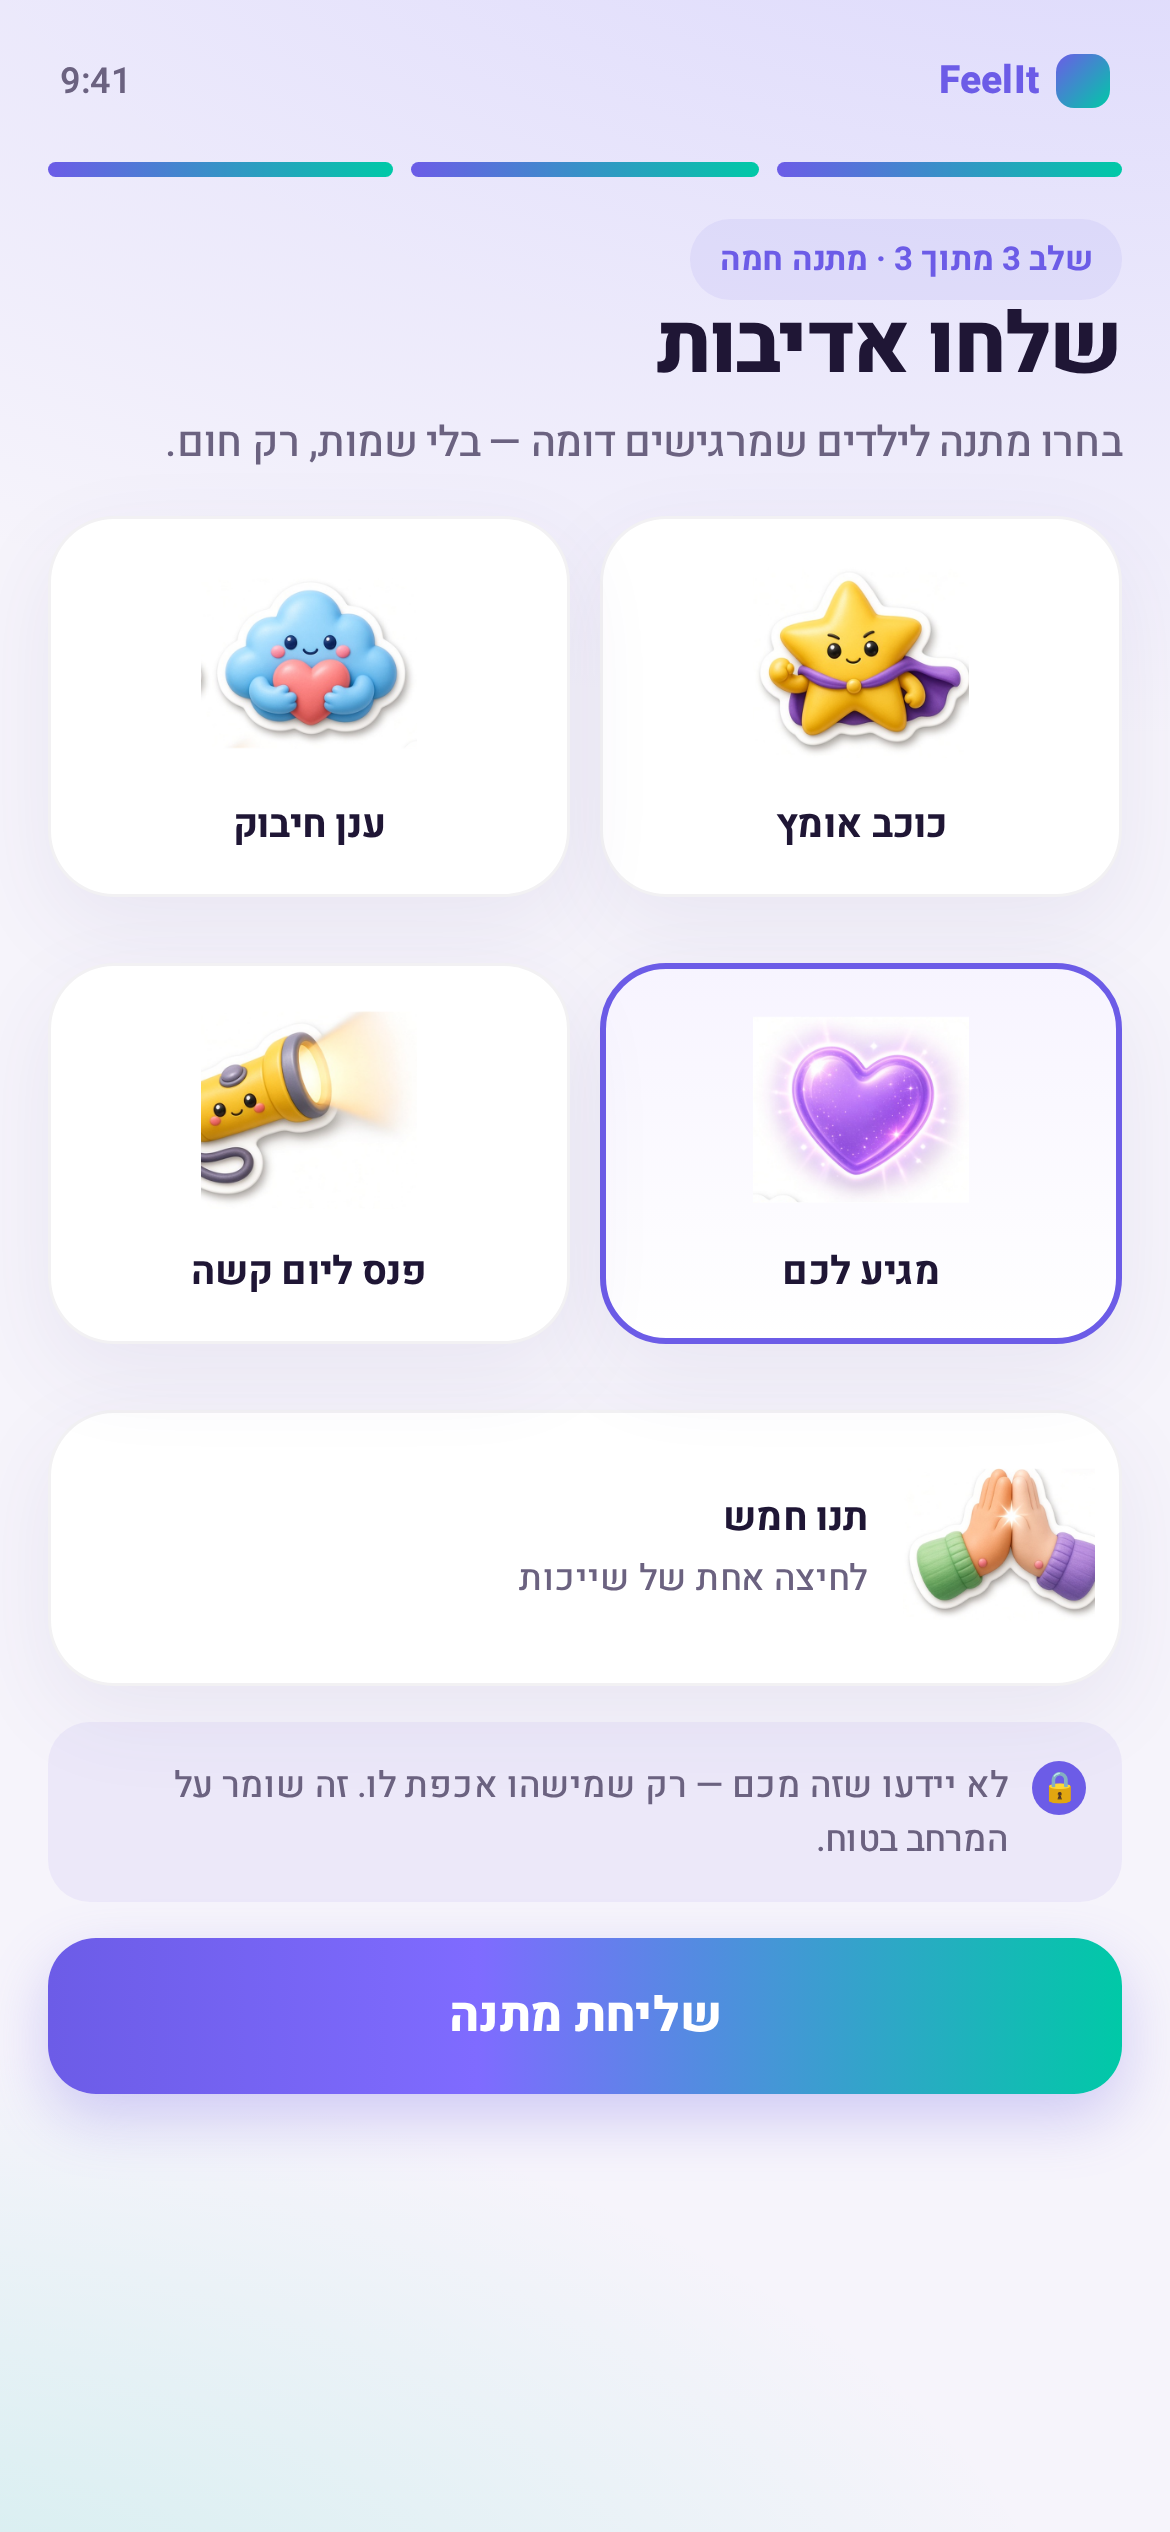
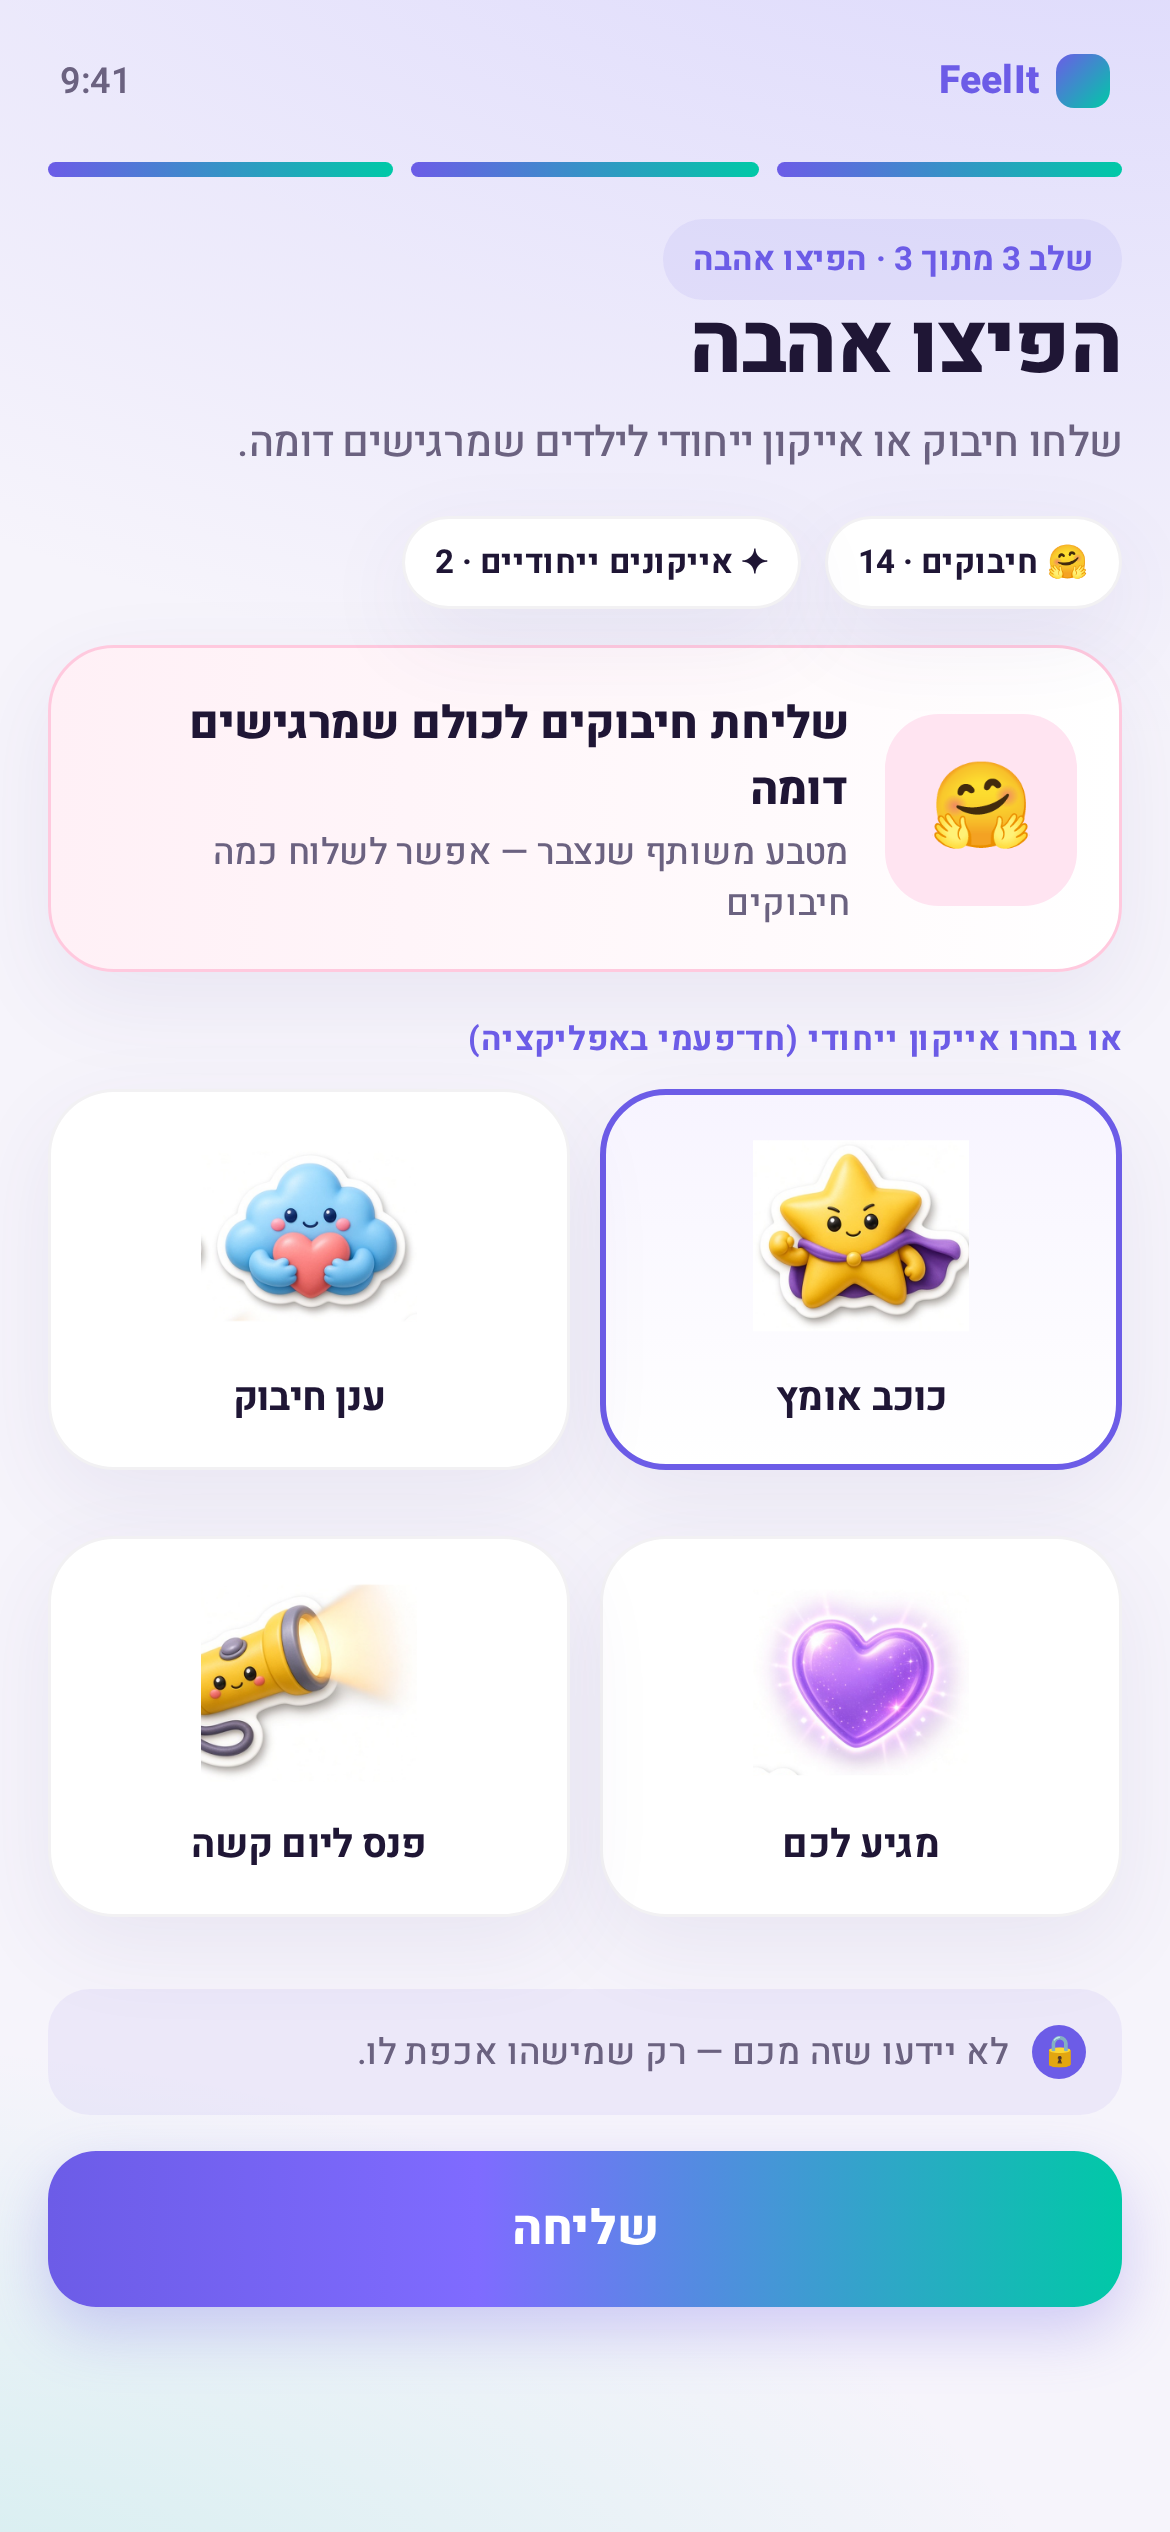
Update Welcome mocks + product copy (two currencies, lever names)
Mocks:
- Replace welcome-screen.png, welcome-not-alone.png, welcome-gift.png

README updates:
- Lever names: 'Sunshine inside me is shining', 'Fun with others', 'Calm in body'
- Note: Hebrew UI may use masculine/feminine randomly
- Step 3 renamed 'Spread Love'
- Two currencies: Hugs (fungible) + Unique icons (non-fungible from My Plant)
- Remove High-five from gift options

OPEN-QUESTIONS: Add hug economy and NFT-like unique icons questions

diff --git a/README.md b/README.md
@@ -2,7 +2,7 @@
 
 **A safe space for kids under 10 who've experienced bullying.** FeelIt helps children express difficult feelings, see they're not alone, and receive kindness from peers—without the risks of open social interaction.
 
-> v1 UI language is Hebrew. Mocks below show the Hebrew interface.
+> v1 UI language is Hebrew. Mocks show the Hebrew interface. Hebrew UI may randomly use masculine or feminine address across screens (not only neutral phrasing).
 
 ---
 
@@ -30,29 +30,33 @@ Daily check-in flow (3 steps). No free text.
 
 Five feeling levers (1–5 scale), using kid-friendly metaphors:
 
-- Sunshine inside
+- Sunshine inside me is shining
 - School weather
-- With others
-- Steady body
+- Fun with others
+- Calm in body
 - Hope light
 
 ![Welcome — Step 1](mocks/welcome-screen.png)
 
 #### Step 2 — You're Not Alone
 
-Shows an anonymous count of kids with similar feelings today. No names, no faces—just reassurance.
+Shows an anonymous count of kids with similar feelings today. No names, no faces—just reassurance that "you're not alone here."
 
 ![Welcome — Step 2](mocks/welcome-not-alone.png)
 
-#### Step 3 — Send Kindness
+#### Step 3 — Spread Love
 
-Pick one kindness gift to send anonymously to that similar-feeling group:
+Two currencies in the app:
+
+1. **Hugs** — fungible balance users accumulate; can send hugs to everyone who feels similarly
+2. **Unique icons** — non-fungible, app-wide unique icons (from My Plant fruits) that can be gifted
+
+Gift options on this screen:
 
 - Brave star
 - Hug cloud
 - You-matter heart
 - Flashlight
-- High-five
 
 Recipients learn only that someone cared—not who.
 

diff --git a/OPEN-QUESTIONS.md b/OPEN-QUESTIONS.md
@@ -26,11 +26,13 @@ The following decisions are not yet finalized and require further discussion.
 - **Minimum cohort size:** What's the minimum number of similar kids before showing a count? (Privacy floor to avoid identifying small groups)
 - **Geographic scope:** Same city? Same region? Global?
 
-### Step 3 — Warm Gifts
-- **Gift catalog:** Which gifts ship in v1? How many options?
-- **Group-broadcast only:** Are gifts always sent to an anonymous group, or can they ever target individuals?
-- **Rate limits:** How often can a child send gifts? (Prevent spam, ensure gifts feel meaningful)
-- **Receiving gifts:** How/when do kids see gifts others sent to their cohort?
+### Step 3 — Spread Love
+- **Hug economy:** How do users accumulate hugs? Starting balance? Earn rate?
+- **Hug spending:** When sending hugs to a similar-feeling cohort, how many hugs are spent?
+- **Unique icons (NFT-like):** How are unique icons generated? From My Plant fruits only, or other sources?
+- **Group-broadcast only:** Are hugs/icons always sent to an anonymous group, or can they ever target individuals?
+- **Rate limits:** How often can a child send hugs/icons? (Prevent spam, ensure gifts feel meaningful)
+- **Receiving:** How/when do kids see hugs or icons others sent to their cohort?
 
 ---
 
